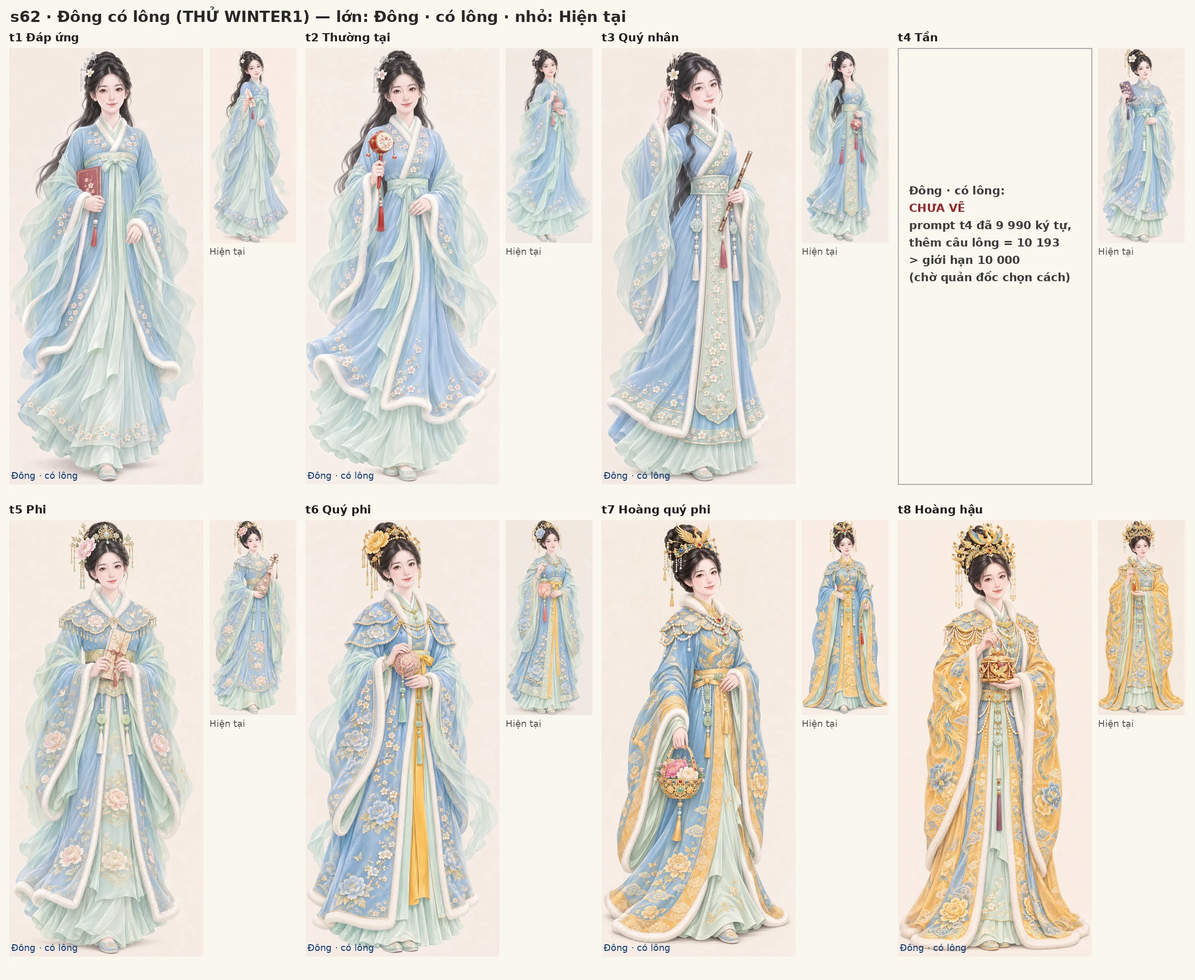
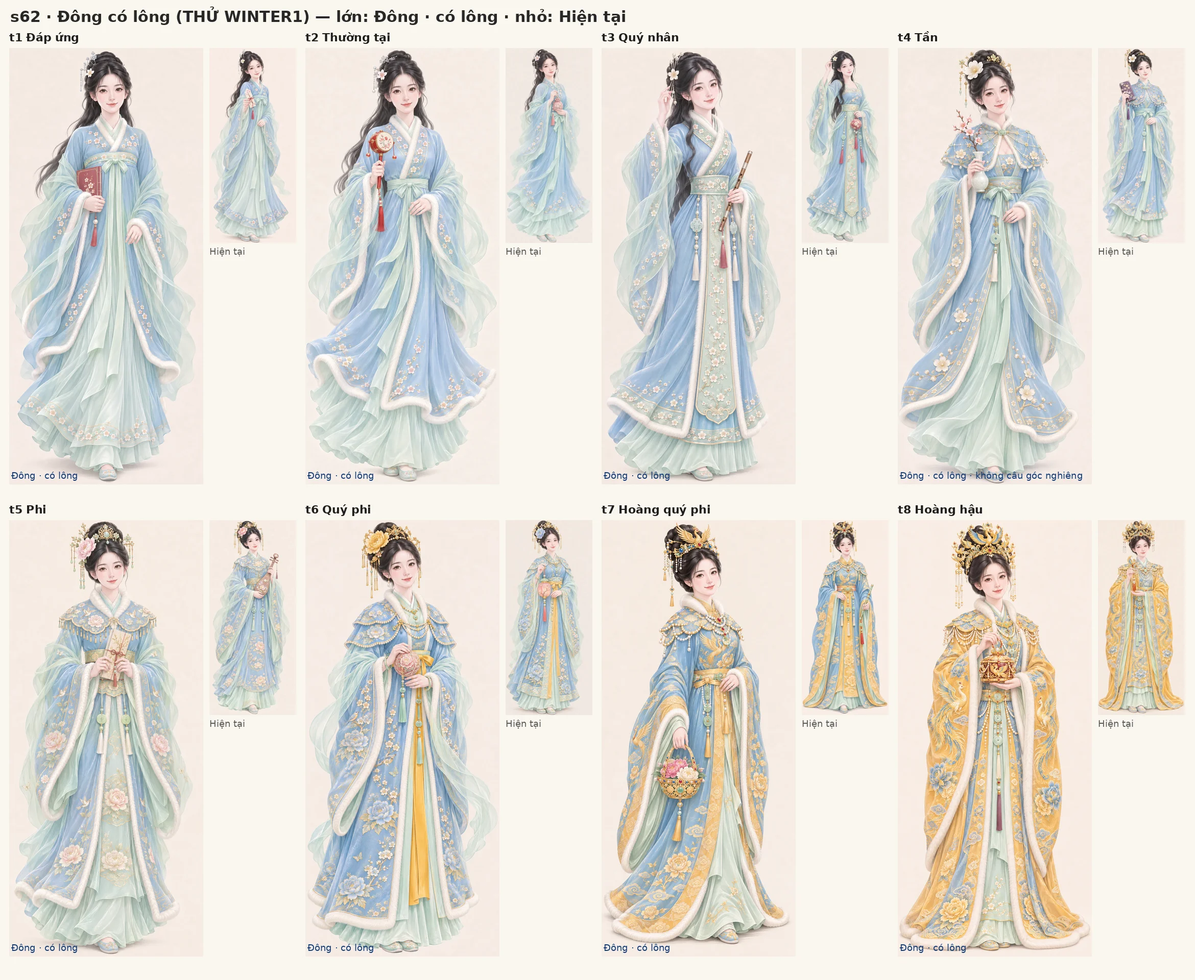
WINTER1: s62 t4 winter (no ANGLE sentence, owner yes), sheet t4 cell, ledger
Claude-Session: https://claude.ai/code/session_01D3E3Naf1jXaZL5A6VSYtr5

Changed region(s): [[0.7487, 0.0312, 0.9047, 0.5]]

diff --git a/dev/handover/reports/WINTER1.md b/dev/handover/reports/WINTER1.md
@@ -10,7 +10,7 @@ Sheet (A37): `dev/handover/review-sheets/winter1/s62_dong_coLong_t1-t8.webp` (45
 | t1 Đáp ứng | 1ldmoUCr4r | mEZiZ8ShJQ |
 | t2 Thường tại | jUoattyLD0 | 9ZHuqIGNYZ |
 | t3 Quý nhân | jUoam4eLD0 | vQARGIUa47 |
-| t4 Tần | **not drawn** (see Q1) | SyhIap2Ub8 |
+| t4 Tần | cpSPN2P0eP (no ANGLE sentence, see end) | SyhIap2Ub8 |
 | t5 Phi | Lw8fhqlswO | xSBe8KVjfW |
 | t6 Quý phi | 1ldmIAjr4r | 1ldDonjr4r |
 | t7 Hoàng quý phi | 8aizA8UIrU | nVsxSZNYQD |
@@ -45,3 +45,8 @@ Need to remove ≥ 194 chars from `dev/art/winter1/s62_t4_dong.txt` (10 193). Ev
 - Removing any one whole sentence ≥ 194 chars: every one FAILs (store sentence missing, or approved S01/S11/S12/S13) **except the whole ANGLE sentence** (407 chars → 9 786, gate PASS). That would drop her ¾-left turn, so the pose would change. Not recommended.
 - ANGLE kept, only its last clause dropped ("her head turns together with her shoulders and body, never back-turned, never in profile.", a repeat of the HEAD AND BODY sentence) → 10 103, still LEN FAIL. Cutting more of the ANGLE words → **FAIL E1** (angle table).
 **Conclusion:** no trim passes the gate while keeping the t4 design and pose. Real options: (a) Foreman C shortens the t4 store/builder text (a builder change, owner OK needed); (b) the owner accepts dropping the ANGLE sentence for the test; (c) t4 waits. Nothing fired.
+
+## t4 DONE (Foreman C #2 go (b), owner YES "Sếp cho em cắt bớt một câu phụ trong đề vẽ Tần", ~15:39Z)
+Prompt `dev/art/winter1/s62_t4_dong_noangle.txt` = s62_t4_dong.txt minus the whole ANGLE sentence (9 786 chars), STORE + APPROVED PASS. Builder untouched.
+Gen **cpSPN2P0eP** (135 cr, one try). Look: square neckline + pearl-net capelet kept; ivory fur at capelet edge/collar, front edges, hem and cuffs; face OK (closed mouth, eyes straight). She stands almost frontal (no angle sentence). The sheet's t4 cell is filled ("Đông · có lông · không câu góc nghiêng").
+**Total WINTER1: 8 gens × 135 = 1 080 cr.**
